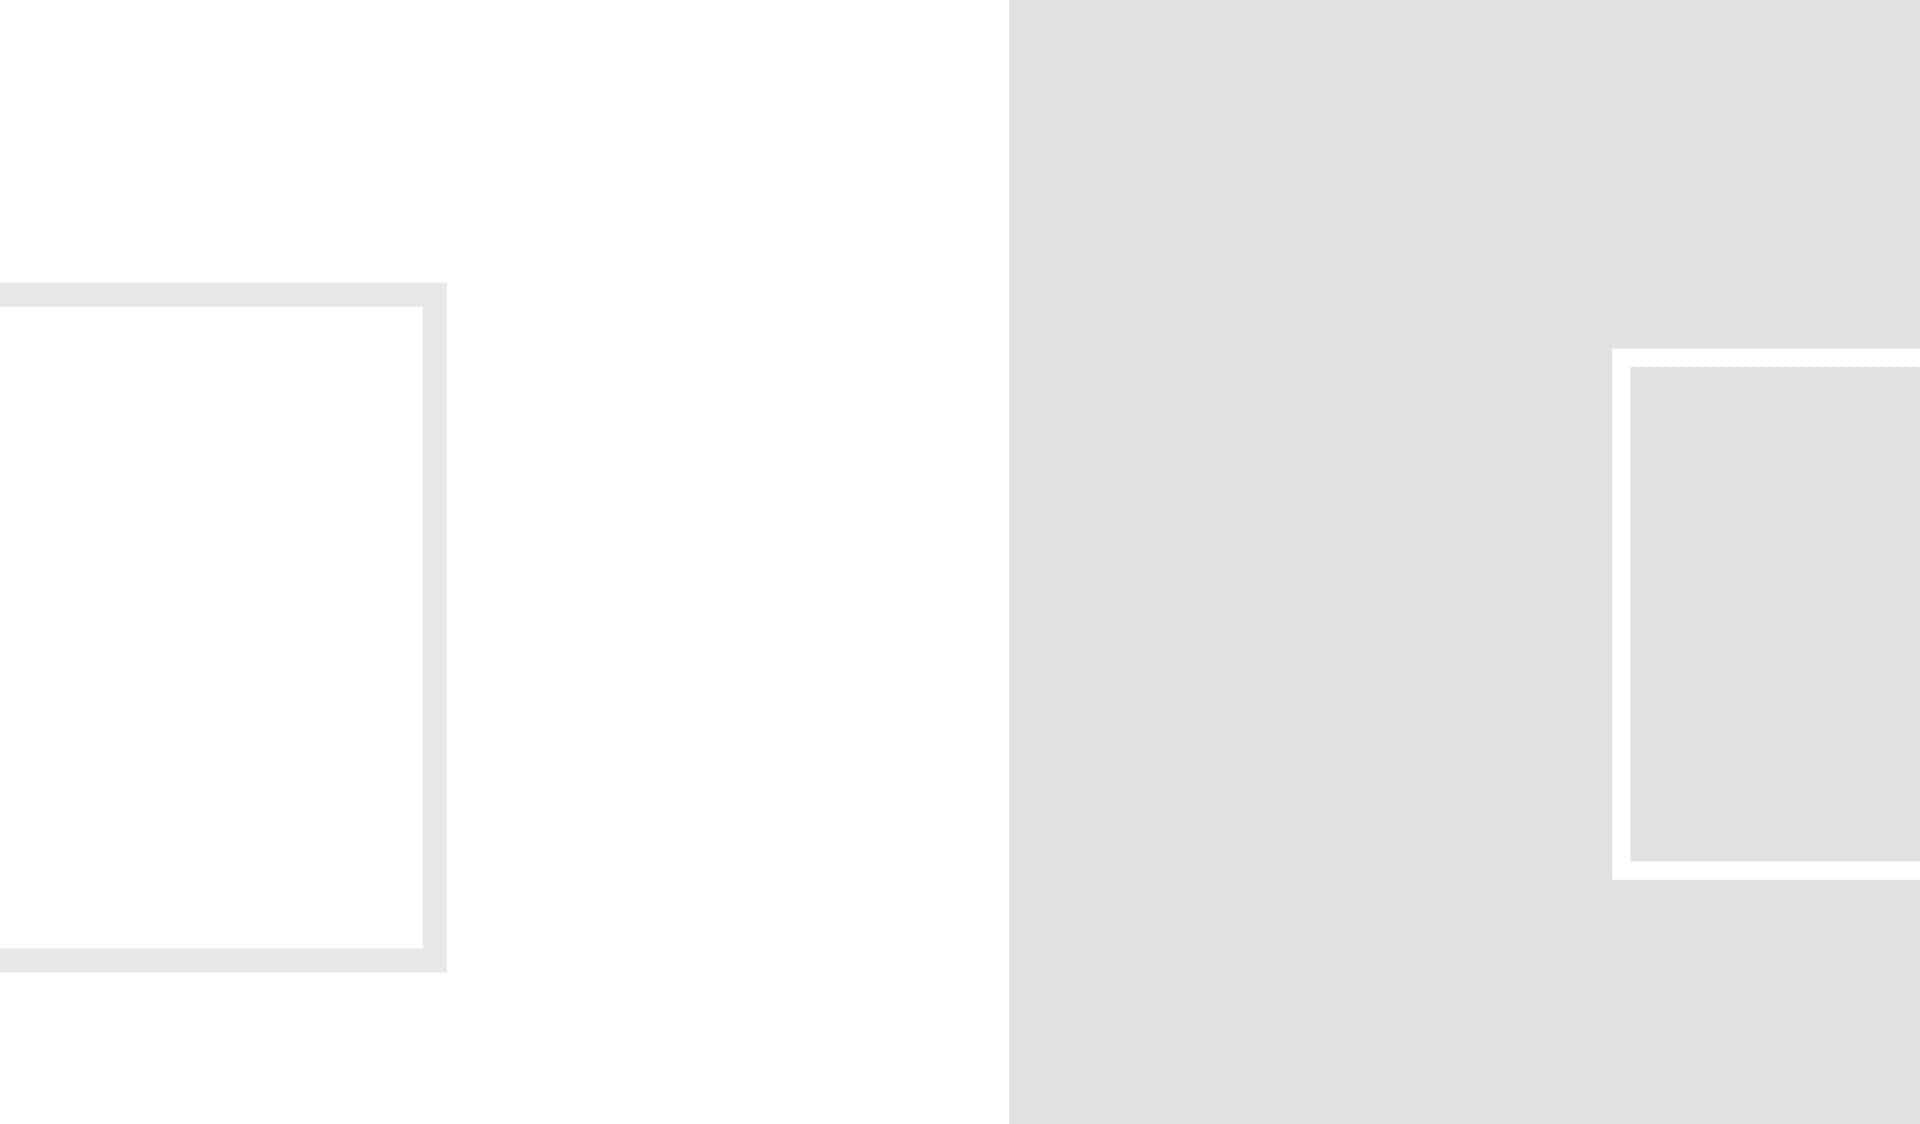
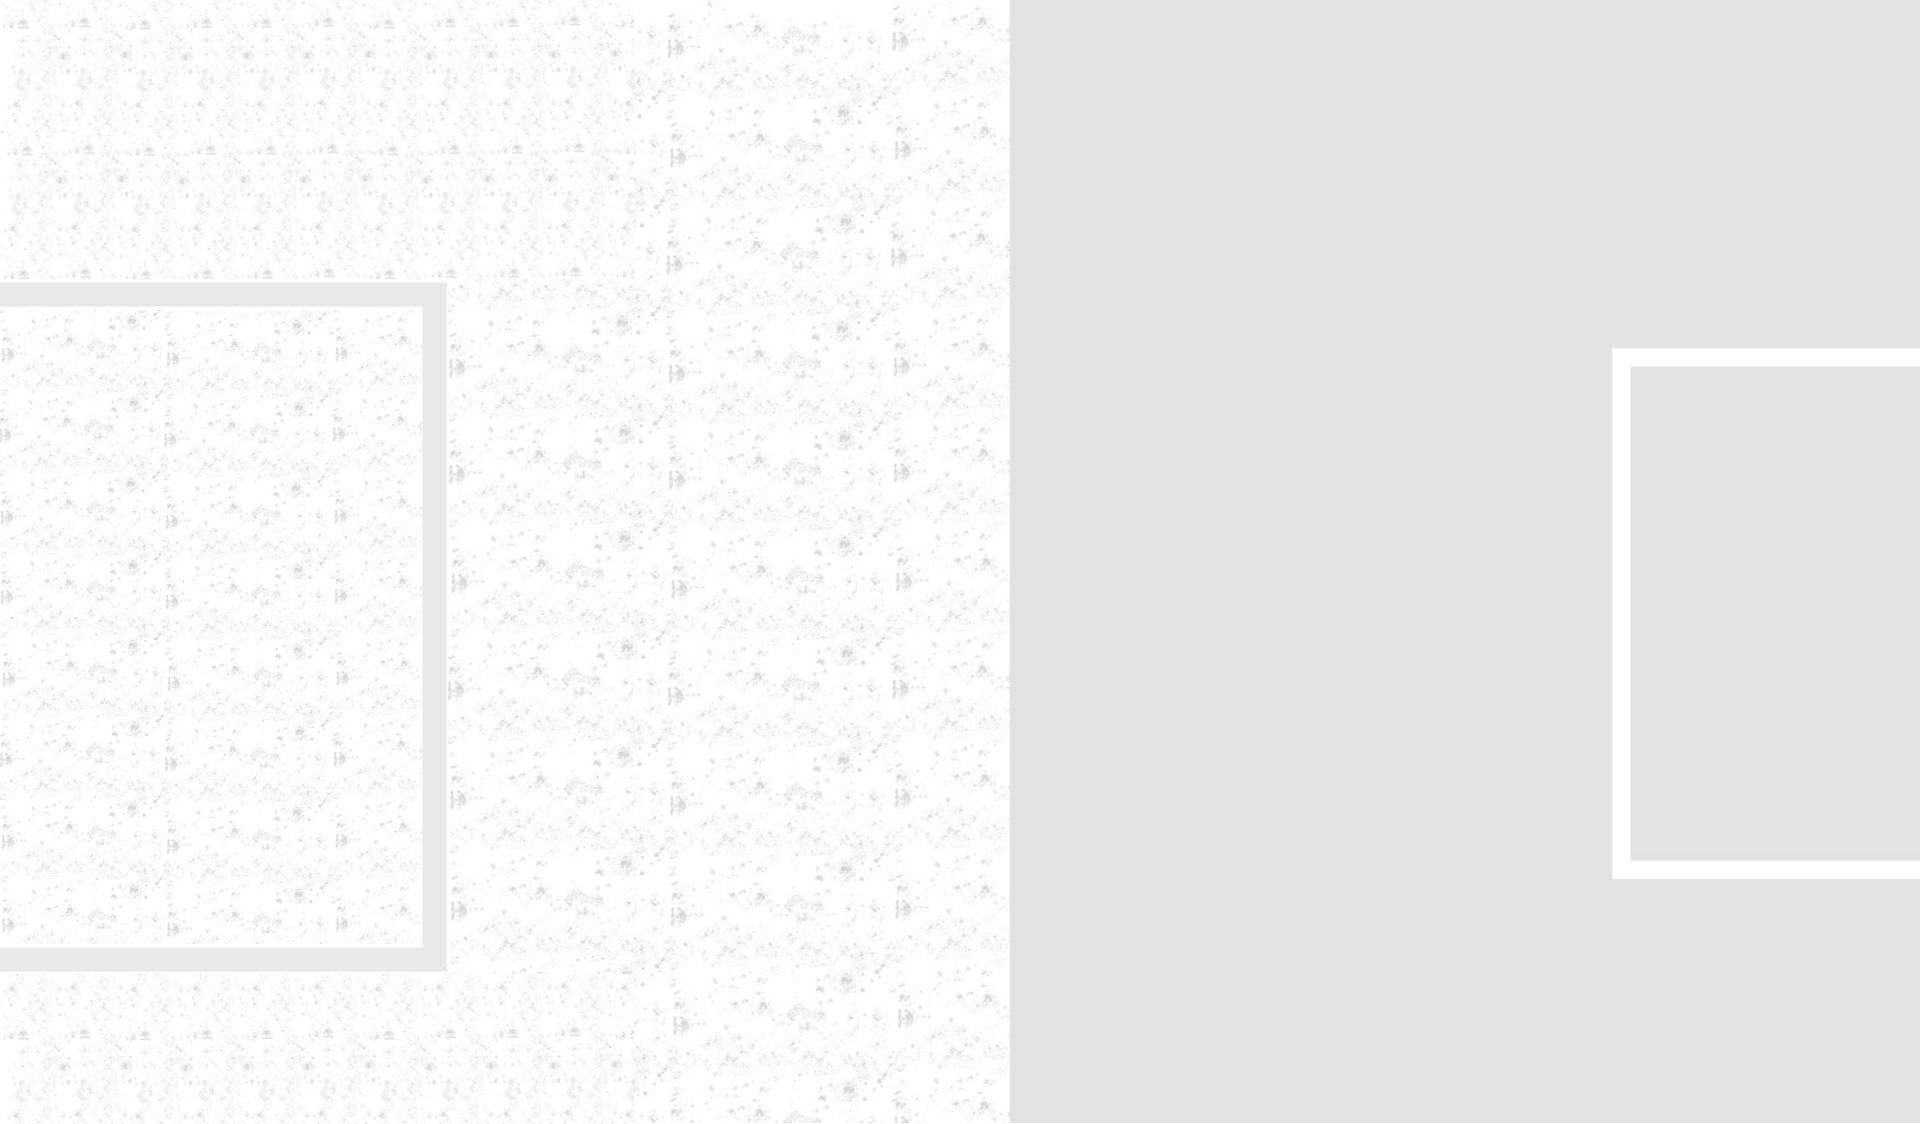
add background

Changed region(s): [[0.5312, 0.9964, 1.0, 1.0]]

diff --git a/index.html b/index.html
@@ -99,7 +99,7 @@
         </div>
     </div><!-- /.hero -->
 
-    <main id="main" class="site-main">
+    <main id="main" class="site-main"></main>
 
         <section id="about" class="site-section section-about text-center">
             <div class="container">

diff --git a/assets/css/style.css b/assets/css/style.css
@@ -143,6 +143,7 @@ html, body {
     font-family: 'Open Sans', sans-serif;
     font-size: 16px;
     color: #212121;
+    background-image: url(/co/assets/img/hero.jpg);
 }
 
 .img-res {
